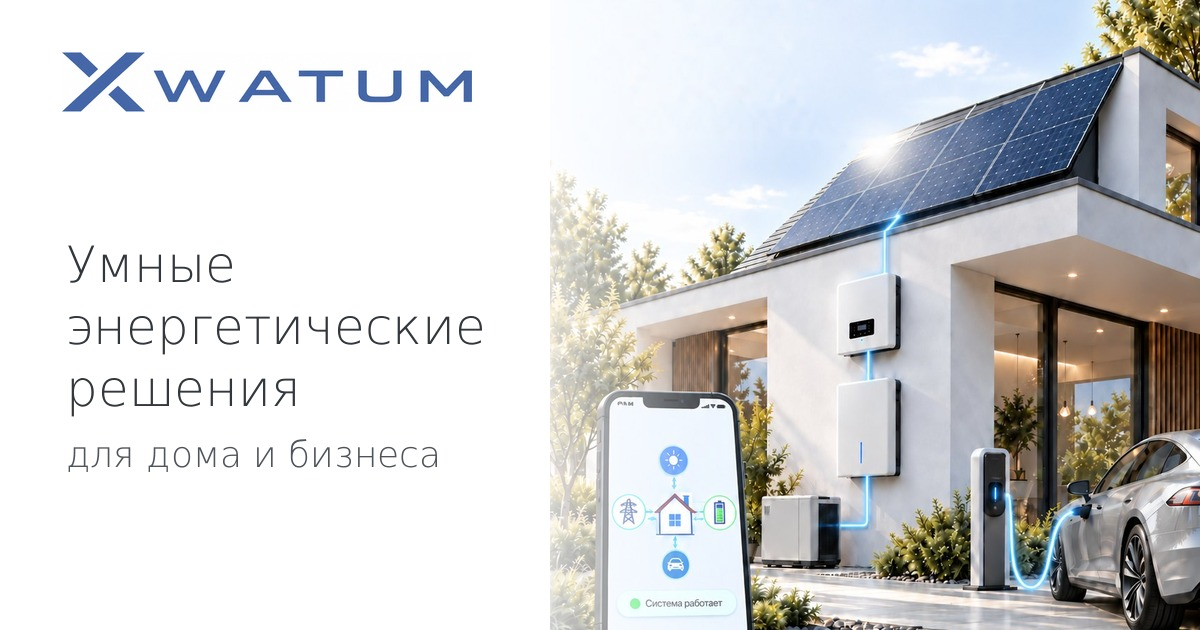
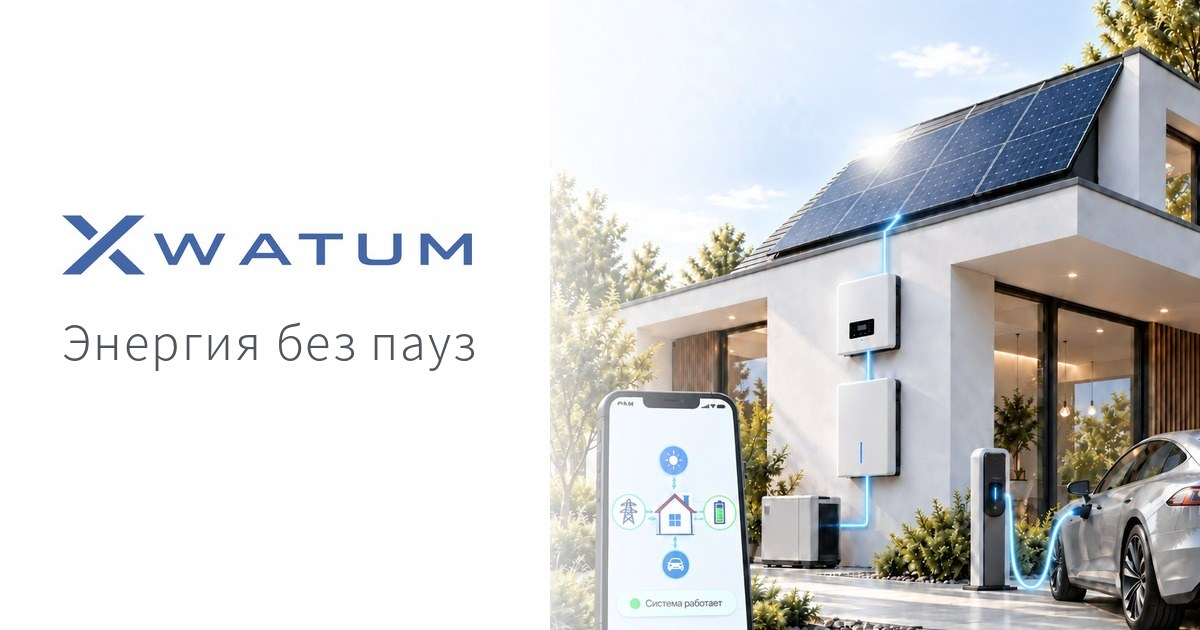
Add files via upload

diff --git a/index.html b/index.html
@@ -7,15 +7,19 @@
 <meta name="description" content="Подберите систему резервного и автономного питания для частного дома за 2 минуты: мощность инвертора, ёмкость накопителя, архитектура и ориентировочный бюджет.">
 <meta name="theme-color" content="#ffffff">
 <meta property="og:type" content="website">
-<meta property="og:title" content="XWATUM — Энергия без пауз">
-<meta property="og:description" content="Умные энергетические решения для дома и бизнеса">
+<meta property="og:url" content="https://xwatum-1.vercel.app/">
+<meta property="og:site_name" content="XWATUM">
+<meta property="og:locale" content="ru_RU">
+<meta property="og:image:type" content="image/jpeg">
+<meta property="og:title" content="Подбор системы резервного питания за 2 минуты">
+<meta property="og:description" content="Онлайн-конфигуратор: мощность инвертора, ёмкость накопителя и ориентировочный бюджет для дома и бизнеса">
 <meta property="og:image" content="https://xwatum-1.vercel.app/og-xwatum.jpg">
 <meta property="og:image:width" content="1200">
 <meta property="og:image:height" content="630">
-<meta property="og:image:alt" content="XWATUM — умные энергетические решения для дома и бизнеса">
+<meta property="og:image:alt" content="XWATUM — Энергия без пауз">
 <meta name="twitter:card" content="summary_large_image">
-<meta name="twitter:title" content="XWATUM — Энергия без пауз">
-<meta name="twitter:description" content="Умные энергетические решения для дома и бизнеса">
+<meta name="twitter:title" content="Подбор системы резервного питания за 2 минуты">
+<meta name="twitter:description" content="Онлайн-конфигуратор: мощность инвертора, ёмкость накопителя и ориентировочный бюджет для дома и бизнеса">
 <meta name="twitter:image" content="https://xwatum-1.vercel.app/og-xwatum.jpg">
 <style>/* ===== XWATUM · Конфигуратор энергосистемы дома ===== */
 *,*::before,*::after{box-sizing:border-box}
